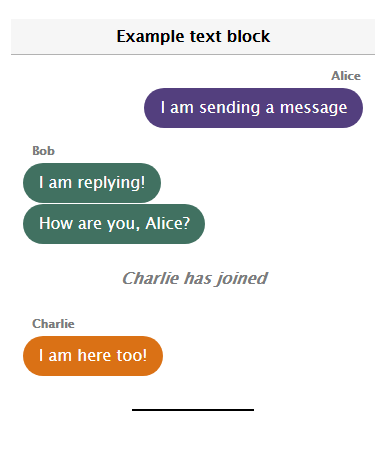
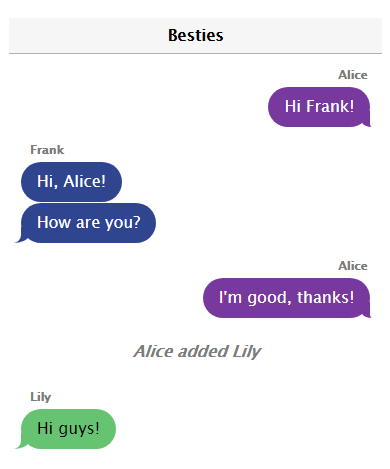
Update associated docs

diff --git a/README.md b/README.md
@@ -1,13 +1,37 @@
 # TextFic Wizard
-The TextFic Wizard can be used to create prettily-formatted texting fics for the 
-AO3 platform.  
-  
-The author writes the fic in simple English, with some very straightforward 
-additions to mark the beginning and end of text message blocks. The wizard will
-then convert the fic to HTML.  
+The TextFic Wizard is an application for producing prettily-formatted texting 
+fics to be published on AO3.  
 
-The wizard also allows the author to easily configure text bubble colors for the 
-characters within their fic.
+It is designed to be easy-to-use, requiring only very basic changes to the 
+source text to indicate where text message blocks appear.
+
+It turns this:  
+
+    ||| Besties
+    Alice: Hi Frank!
+    Frank: Hi, Alice!
+    Frank: How are you?
+    Alice: I'm good, thanks!
+    /// Alice added Lily
+    Lily: Hi guys!
+    |||
+
+Into this:  
+![Example image](example.png)
+
+##Using the tool
+  
+You can find the latest release of the tool 
+[on GitHub here](https://github.com/settifora/textficwizard/releases).
+
+The easiest way to run it is as follows:
+1. Download the .exe file from the latest release (under "Assets")
+2. Place it in an empty folder on your computer
+3. Follow the instructions in the UserManual.pdf from the latest release  
+
+Alternatively, you can download and run the Python source code. You will need to
+install the module dependencies listed in requirements.txt (if you have pip, you
+can do this with `pip install -r requirements.txt`).
 
 ### Limitations
 The following limitations currently apply, **but are being actively worked on**:
@@ -22,15 +46,16 @@ Please also note the following:
 future releases, and those changes may not be backwards compatible, meaning you 
 may need to modify your input files for use with future versions of the wizard.
 
-## Example usage
-    ||| Example text block
-    Alice: I am sending a message
-    Bob: I am replying!
-    Bob: How are you, Alice?
-    /// Charlie has joined
-    Charlie: I am here too!
-    |||
-  
+## Acknowledgements
+The formatting done by the wizard is based on the message formatting in 
+[Did You Miss Me?](https://archiveofourown.org/works/36253849/chapters/90375916),
+which is itself based on
+[this tutorial](https://archiveofourown.org/works/6434845/chapters/14729722).
 
-The above document will produce output which looks something like this:
-![Example image](example.png)
+The wizard is built on the following libraries:
+* [PyQt5](https://pypi.org/project/PyQt5/)
+* [BeautifulSoup](https://pypi.org/project/beautifulsoup4/)
+* [Mammoth](https://pypi.org/project/mammoth/)
+* [PyQtWebEngine](https://pypi.org/project/PyQtWebEngine/)
+
+Executable files for each release are produced using [PyInstaller](https://pypi.org/project/pyinstaller/).
